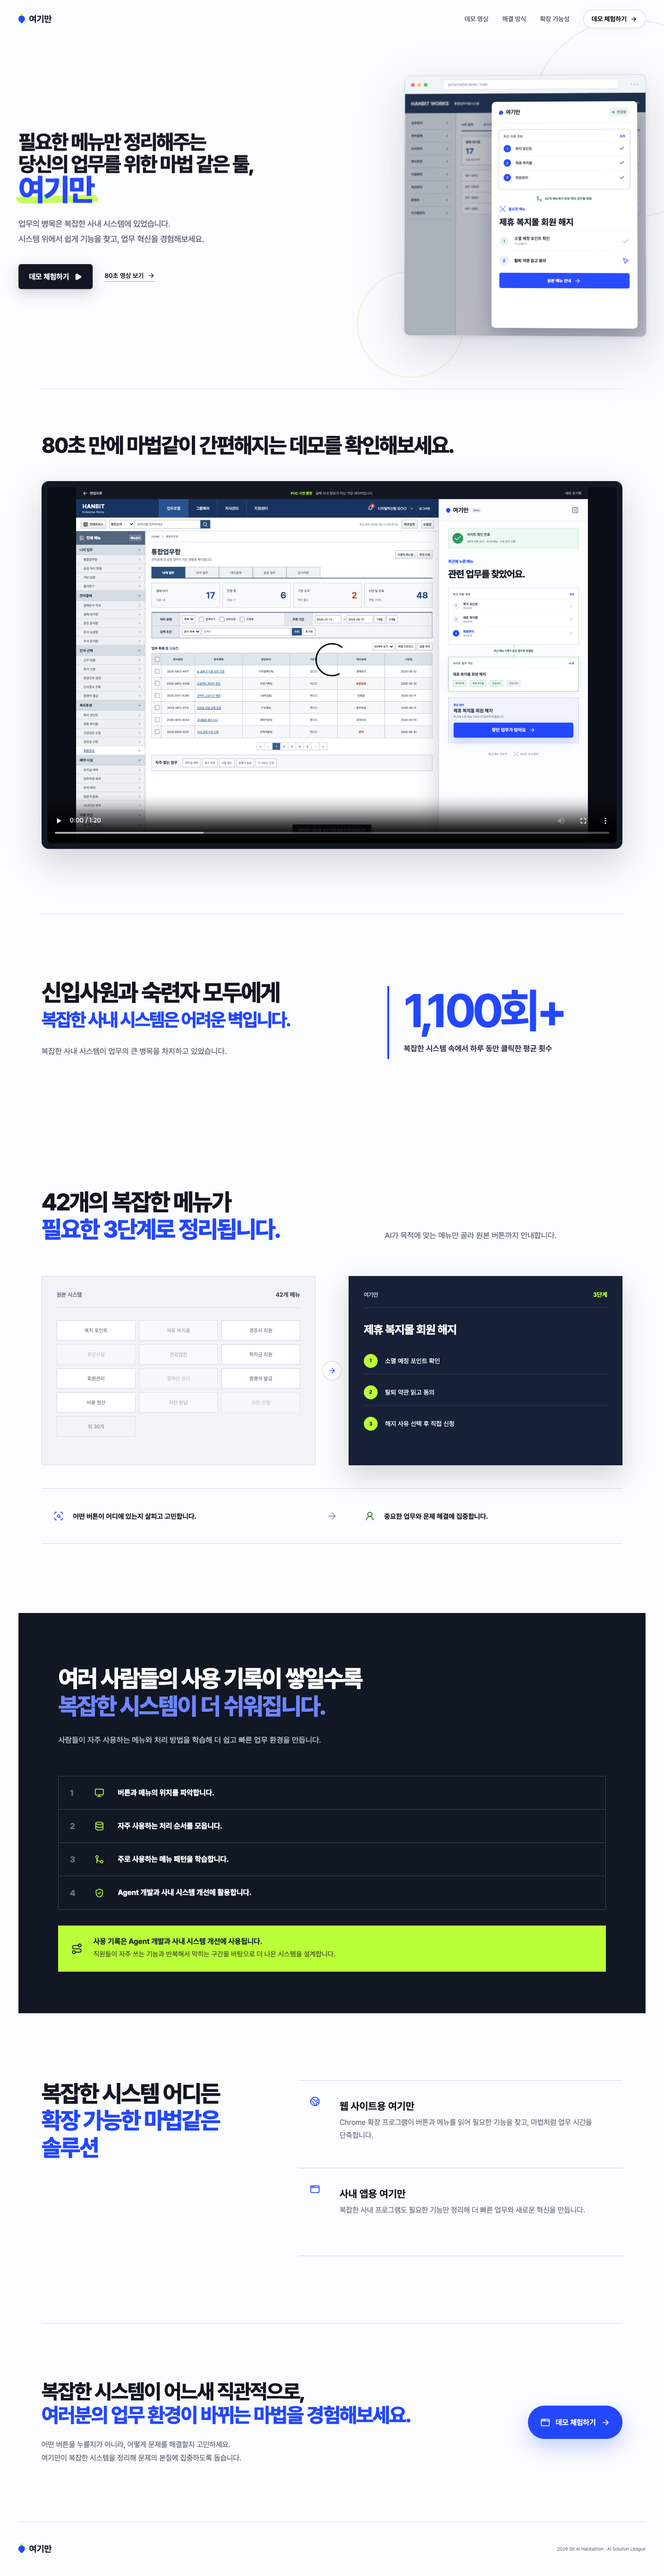
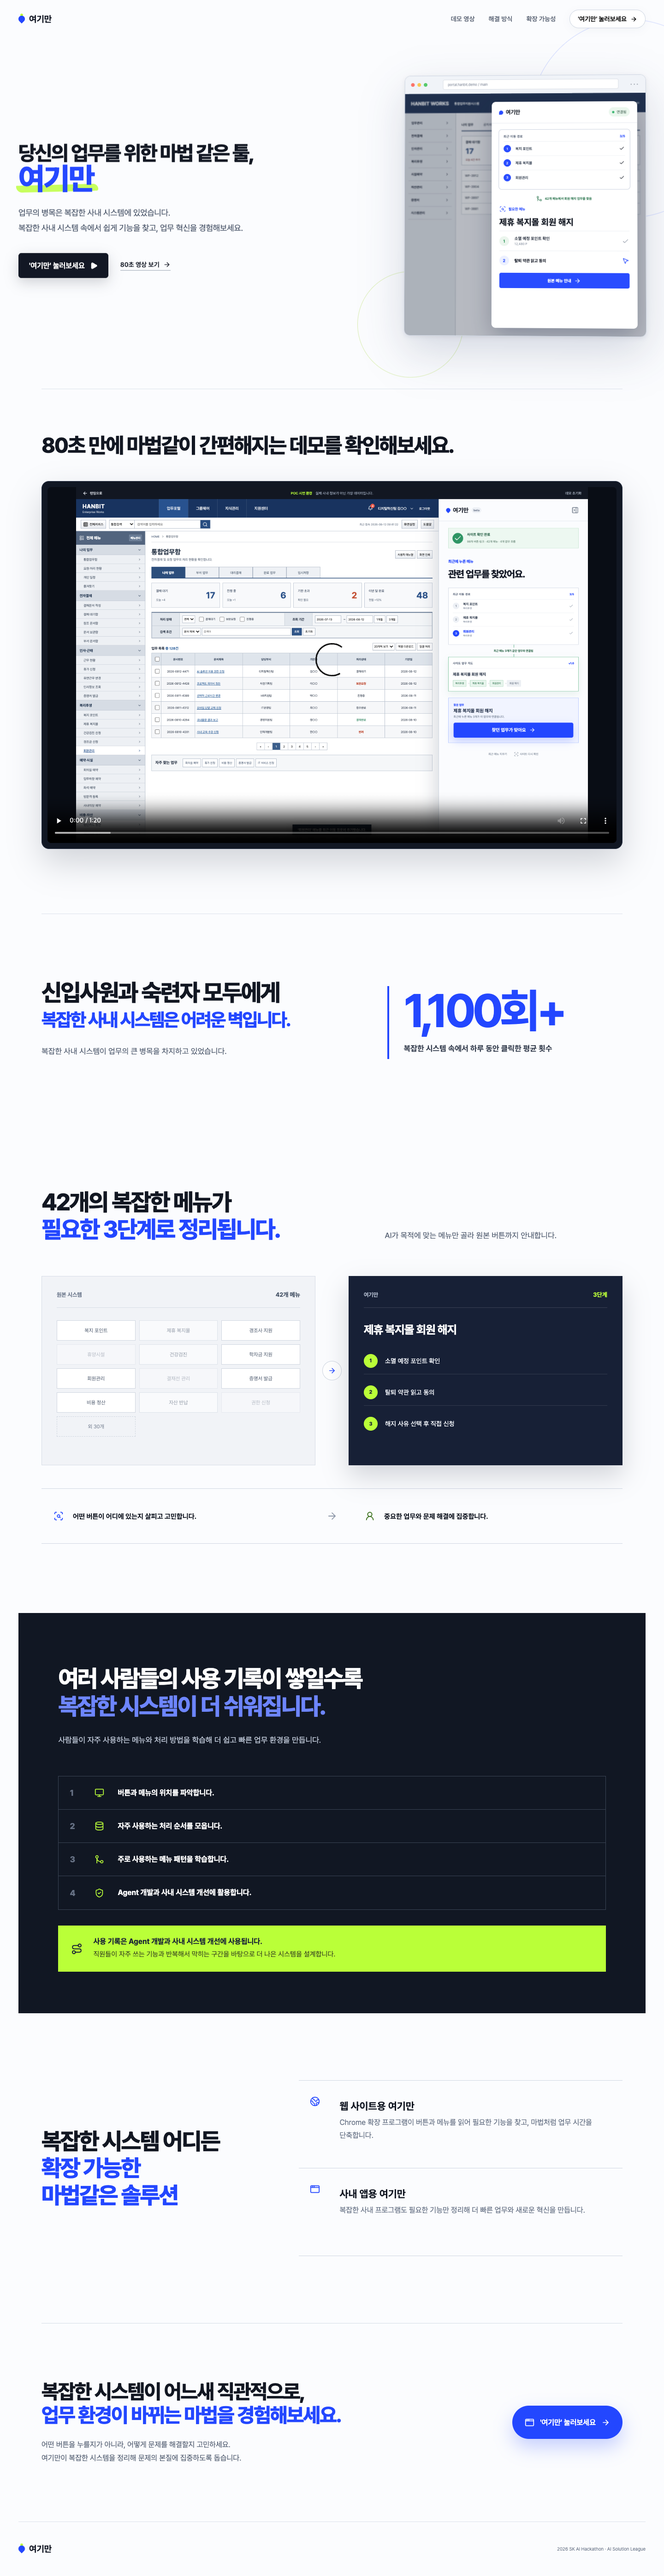
Refine landing message and CTA

diff --git a/src/Landing.tsx b/src/Landing.tsx
@@ -62,7 +62,7 @@ export function Landing({ onDemo }: LandingProps) {
           <a href="#solution">해결 방식</a>
           <a href="#learning">확장 가능성</a>
           <button className="nav-demo" onClick={onDemo}>
-            데모 체험하기 <ArrowRight size={15} />
+            '여기만' 눌러보세요 <ArrowRight size={15} />
           </button>
         </div>
       </nav>
@@ -70,17 +70,16 @@ export function Landing({ onDemo }: LandingProps) {
       <section className="hero-section">
         <div className="hero-copy hero-reveal">
           <h1>
-            필요한 메뉴만 정리해주는
-            <br />당신의 업무를 위한 마법 같은 툴,
+            당신의 업무를 위한 마법 같은 툴,
             <br /><span className="hero-name">여기만</span>
           </h1>
           <p className="hero-description">
             <span>업무의 병목은 복잡한 사내 시스템에 있었습니다.</span>
-            <span>시스템 위에서 쉽게 기능을 찾고, 업무 혁신을 경험해보세요.</span>
+            <span>복잡한 사내 시스템 속에서 쉽게 기능을 찾고, 업무 혁신을 경험해보세요.</span>
           </p>
           <div className="hero-actions">
             <button className="primary-cta" onClick={onDemo}>
-              데모 체험하기 <Play size={17} fill="currentColor" />
+              '여기만' 눌러보세요 <Play size={17} fill="currentColor" />
             </button>
             <a className="text-cta" href="#demo-video">
               80초 영상 보기 <ArrowRight size={16} />
@@ -229,7 +228,7 @@ export function Landing({ onDemo }: LandingProps) {
 
       <section className="platform-section">
         <div className="platform-heading">
-          <h2>복잡한 시스템 어디든<br /><span className="accent-line">확장 가능한 마법같은 솔루션</span></h2>
+          <h2>복잡한 시스템 어디든<br /><span className="accent-line">확장 가능한 <span className="keep-together">마법같은 솔루션</span></span></h2>
         </div>
         <div className="platform-list">
           <article>
@@ -245,11 +244,11 @@ export function Landing({ onDemo }: LandingProps) {
 
       <section className="final-cta-section">
         <div className="final-cta-copy">
-          <h2>복잡한 시스템이 어느새 직관적으로,<br /><span>여러분의 업무 환경이 바뀌는 마법을 경험해보세요.</span></h2>
+          <h2>복잡한 시스템이 어느새 직관적으로,<br /><span>업무 환경이 바뀌는 마법을 경험해보세요.</span></h2>
           <p><span>어떤 버튼을 누를지가 아니라, 어떻게 문제를 해결할지 고민하세요.</span><span>여기만이 복잡한 시스템을 정리해 문제의 본질에 집중하도록 돕습니다.</span></p>
         </div>
         <button className="final-cta" onClick={onDemo}>
-          <AppWindow size={21} /> 데모 체험하기 <ArrowRight size={19} />
+          <AppWindow size={21} /> '여기만' 눌러보세요 <ArrowRight size={19} />
         </button>
       </section>
 

diff --git a/src/styles.css b/src/styles.css
@@ -202,7 +202,8 @@ footer p { margin: 0; }footer small { justify-self: end; }
 .learning-insight p { margin: 0; display: grid; gap: 6px; }.learning-insight b { font-size: 16px; }.learning-insight span { color: #38431f; font-size: 15px; line-height: 1.65; }
 .privacy-note { margin: 19px 0 0; color: #8f99aa; font-size: 12px; text-align: right; }
 
-.platform-section { padding: 145px 0; display: grid; grid-template-columns: .78fr 1.22fr; gap: 110px; align-items: start; }
+.platform-section { padding: 145px 0; display: grid; grid-template-columns: .78fr 1.22fr; gap: 110px; align-items: stretch; }
+.platform-heading { display: flex; flex-direction: column; justify-content: center; }
 .platform-heading h2 { font-size: clamp(40px, 3.5vw, 55px); }
 .platform-list { border-top: 1px solid #cfd6e1; }
 .platform-list article { min-height: 190px; display: grid; grid-template-columns: 50px 1fr; gap: 14px; align-items: start; padding: 34px 24px; border-bottom: 1px solid #cfd6e1; }
